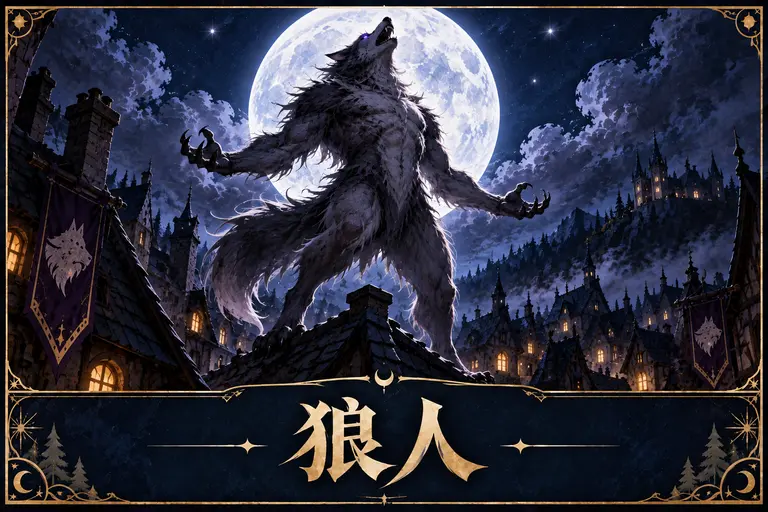
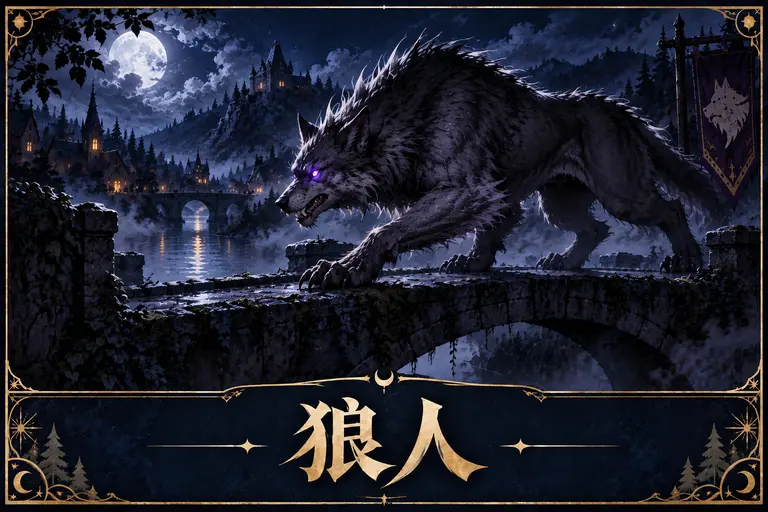
feat: consume invitation room from URL to prevent refilling on refresh

diff --git a/frontend/tests/defensive.test.js b/frontend/tests/defensive.test.js
@@ -46,6 +46,29 @@ function load(file, overrides = {}) {
   return { instance, state, mounted, unmounted, applied, watchers }
 }
 
+test('invitation room is consumed once and the next room survives refresh', async () => {
+  const previousStorage = globalThis.localStorage
+  const saved = new Map([['roomId', 'OLD'], ['userId', 'Alice'], ['userPsw', '1234']])
+  globalThis.localStorage = { getItem: key => saved.get(key) ?? null, setItem: (key, value) => saved.set(key, value) }
+  const route = { query: { room: 'ABC12', source: 'invite' } }
+  const overrides = {
+    'vue-router': { useRoute: () => route, useRouter: () => ({ replace: location => { route.query = location.query } }) },
+  }
+  try {
+    const first = load('views/JoinRoomView.vue', overrides)
+    first.mounted.forEach(fn => fn())
+    await nextTick()
+    assert.equal(first.instance.roomid.value, 'ABC12')
+    assert.deepEqual(route.query, { source: 'invite' })
+    first.instance.roomid.value = nextRoomId(first.instance.roomid.value)
+    await nextTick()
+    const refreshed = load('views/JoinRoomView.vue', overrides)
+    refreshed.mounted.forEach(fn => fn())
+    await nextTick()
+    assert.equal(refreshed.instance.roomid.value, 'ABC13')
+  } finally { globalThis.localStorage = previousStorage }
+})
+
 test('ops countdown uses the server end time and waits for phase transition at zero', () => {
   const { instance: c, state } = load('views/OperationView.vue')
   c.now.value = 100000

diff --git a/frontend/src/views/JoinRoomView.vue b/frontend/src/views/JoinRoomView.vue
@@ -39,6 +39,13 @@ onMounted(() => {
   if (room !== undefined && /^[A-Za-z0-9]{1,6}$/.test(String(room))) {
     roomid.value = String(room)
   }
+  // Consume the invite link: drop ?room= from the URL so a later refresh doesn't
+  // re-fill the inviter's room over whatever the visitor changed it to (e.g. the
+  // "下一个" button). From then on the field restores from localStorage on refresh.
+  if (room !== undefined) {
+    const { room: _dropped, ...rest } = route.query
+    router.replace({ query: rest })
+  }
 })
 
 const canSave = computed(
